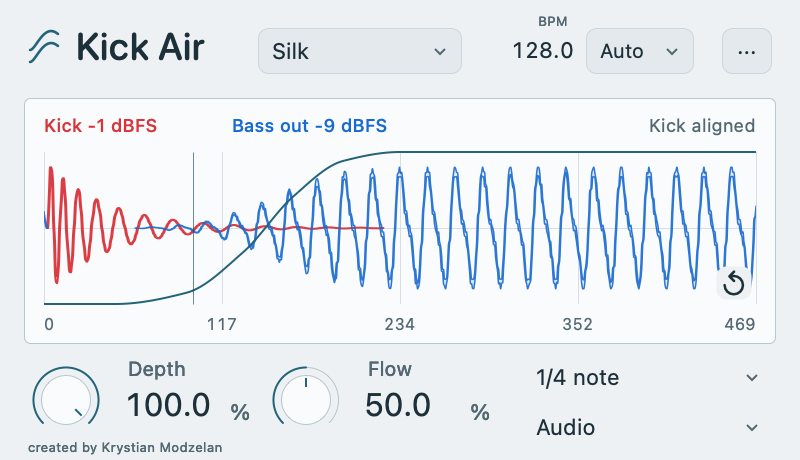
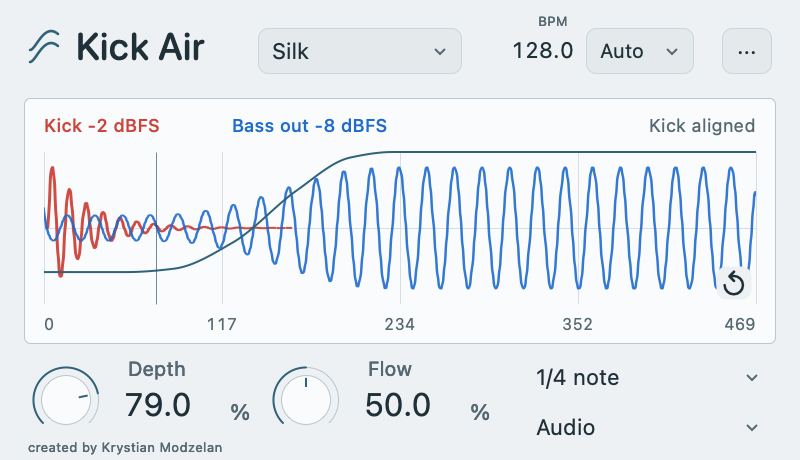
Release 0.3.2 beta with new factory curves and text-only preset menus

diff --git a/VALIDATION.md b/VALIDATION.md
@@ -1,34 +1,23 @@
 # Validation summary
 
-Kick Air 0.3.1 beta, October 24, 2026.
+Kick Air 0.3.2 beta, October 24, 2026.
 
-## Audio and plugin checks
+## Checks on this build
 
-- DSP regression suite: 1,426,710 assertions passed.
+- Universal macOS AU and VST3 builds completed for Apple Silicon and Intel.
+- Native Windows x64 VST3 build completed.
+- DSP regression suite: 1,426,710 assertions passed on macOS and under Wine.
 - Official VST3 validator: 47 passed, 0 failed on each platform build.
-- macOS AU: strict native validation passed. Intel AU validation also passed
-  using Rosetta on Apple Silicon.
 - Native macOS VST3 test host: 79,631 checks passed.
-- Windows VST3 test host: 79,516 checks passed using Wine 11.0 on macOS.
-
-The plugin hosts exercise the real binaries, main and sidechain inputs, mono and
-stereo, 32-bit and 64-bit buffers, automation, MIDI, latency, tempo and saved state.
-
-## GUI and installers
-
-- Windows native controls, curve dragging, numeric input and Details passed
-  runtime checks at 100, 150 and 200 percent scaling.
-- Windows installation, installed-plugin runtime, app registration, uninstall and
-  preservation of an unrelated test file passed using Wine.
-- The English macOS package installed successfully for the current user. Its AU
-  and VST3 binaries match the validated builds.
-- Public installer payloads contain English guides. The audio binaries are
-  unchanged from the tested 0.3.1 builds.
+- Windows VST3 test host: 79,516 checks passed using Wine 11.0 on macOS, including native controls and 100/150/200 percent DPI.
+- macOS bundle signatures verified during packaging. These are ad-hoc signatures, not Developer ID signatures.
+- Windows packaging verified the exact current binary and runtime evidence.
+- Preset thumbnail drawing was removed from both native menus. All factory curves use the new library.
 
 ## Limits
 
-Wine tests are not a substitute for testing in a DAW on a physical Windows PC.
-Physical Intel Mac testing and compatibility with every DAW are not confirmed.
-These are unsigned beta installers. The macOS package is not notarized.
+This update was not manually retested in DAWs or installed on physical Windows or Intel Mac hardware. AU host validation and installer install/uninstall checks from 0.3.1 were not repeated for 0.3.2. Automated host checks do not establish compatibility with every DAW.
 
-The release includes SHA256SUMS.txt for checking downloaded files.
+The installers are unsigned, and the macOS package is not notarized. Antivirus detections for an earlier Windows installer remain unresolved. A changed hash is not proof of safety or a fix for those detections.
+
+SHA256SUMS.txt identifies the exact release downloads.

diff --git a/USER_GUIDE.md b/USER_GUIDE.md
@@ -1,6 +1,6 @@
 # Kick Air user guide
 
-Version 0.3.1 beta
+Version 0.3.2 beta
 
 Kick Air lowers the volume of a bass or another track when a sound arrives at its
 external sidechain input. The sidechain source can be a kick, snare or any other
@@ -16,7 +16,7 @@ AAX, VST2, Linux and 32-bit Windows hosts are not included.
 ## Install on Windows
 
 1. Save your project and close your DAW.
-2. Run `KickAir-0.3.1-Windows-x64.exe` and complete the setup.
+2. Run `KickAir-0.3.2-Windows-x64.exe` and complete the setup.
 3. Open your DAW and rescan VST3 plugins if Kick Air does not appear.
 
 The installer needs administrator permission and places the plugin in:
@@ -33,7 +33,7 @@ Uninstall. Your DAW projects are kept.
 ## Install on macOS
 
 1. Save your project and close your DAW.
-2. Open `KickAir-0.3.1-macOS.pkg` and install for your current user account.
+2. Open `KickAir-0.3.2-macOS.pkg` and install for your current user account.
 3. Open your DAW and rescan plugins if Kick Air does not appear.
 
 The installer includes universal AU and VST3 plugins:
@@ -107,7 +107,8 @@ DAW. The main input receives the bass; the auxiliary input receives the trigger.
   the knob for 10 percent steps or type an exact value. Double-click resets to 100.
 - Flow: character of the return. Lower values return later and more steeply;
   higher values return earlier and more gently. Double-click resets to 50.
-- Shape: choose one of 16 starting curves or edit a Custom curve.
+- Shape: choose one of 16 named starting curves or edit a Custom curve. The menu
+  shows names only; the selected curve appears in the main display.
 - Note division: choose 1/8, 1/4, 1/2 or one bar. This changes the response duration.
   In Audio mode, each detected hit can trigger the curve, including faster hits.
 - Auto: follows the project tempo. Type a BPM value to use a manual tempo, or
@@ -184,3 +185,9 @@ buffer size and steps to reproduce. Include routing screenshots when relevant.
 See TESTING.md in the GitHub repository for the feedback checklist.
 
 created by Krystian Modzelan
+
+## Updating from 0.3.1
+
+Version 0.3.2 replaces all factory curves. Projects using a factory shape may
+sound different after updating. Save or export important projects first. Custom
+curve points, parameter IDs and plugin identifiers are unchanged.

diff --git a/README.md b/README.md
@@ -12,10 +12,14 @@ another sound sent to the external sidechain.
 
 | Platform | Format | Installer |
 | --- | --- | --- |
-| Windows 10/11, 64-bit | VST3 | [Download EXE](https://github.com/kikk-i/kick-air/releases/download/v0.3.1-beta.1/KickAir-0.3.1-Windows-x64.exe) |
-| macOS 11+, Apple Silicon and Intel | AU and VST3 | [Download PKG](https://github.com/kikk-i/kick-air/releases/download/v0.3.1-beta.1/KickAir-0.3.1-macOS.pkg) |
+| Windows 10/11, 64-bit | VST3 | [Download EXE](https://github.com/kikk-i/kick-air/releases/download/v0.3.2-beta.1/KickAir-0.3.2-Windows-x64.exe) |
+| macOS 11+, Apple Silicon and Intel | AU and VST3 | [Download PKG](https://github.com/kikk-i/kick-air/releases/download/v0.3.2-beta.1/KickAir-0.3.2-macOS.pkg) |
 
-Version 0.3.1 beta. No account, activation or time limit.
+Version 0.3.2 beta. No account, activation or time limit.
+
+This update replaces all 16 factory curves and shows preset names without
+thumbnail graphics on both platforms. Custom curve points are unchanged. Factory
+preset selections in older projects may sound different after updating.
 
 Save your project and close your DAW before installing. Restart it afterwards and
 rescan plugins if needed. These are unsigned beta installers. The macOS package
@@ -49,10 +53,9 @@ Please report your DAW, OS, plugin format, sample rate and buffer size. Routing,
 clicks, project recall, offline export and display scaling are useful things to
 check. [Testing checklist](TESTING.md) and [bug reports](https://github.com/kikk-i/kick-air/issues/new/choose).
 
-macOS AU and VST3 passed native validation and test-host checks. Windows passed
-runtime, GUI, install and uninstall checks using Wine on macOS. Testing in DAWs
-on physical Windows PCs is still needed. Compatibility with every DAW is not
-confirmed. [Validation summary](VALIDATION.md).
+See the [validation summary](VALIDATION.md) for checks on this build. This update
+was not manually retested in DAWs. Testing on physical Windows PCs is still
+needed. Compatibility with every DAW is not confirmed.
 
 This repository contains downloads and documentation. Plugin source code is not
 included. The screenshot uses generated test audio.

diff --git a/CHANGELOG.md b/CHANGELOG.md
@@ -1,0 +1,7 @@
+# Changes
+
+## 0.3.2 beta
+
+Preset menus now show names only on both platforms. All 16 factory envelopes
+have been rebuilt using new timings and response points. Saved Custom curves
+are unchanged. Factory presets in existing projects may sound different.

diff --git a/TESTING.md b/TESTING.md
@@ -1,6 +1,6 @@
 # Testing Kick Air
 
-Version 0.3.1 beta. No activation or time limit.
+Version 0.3.2 beta. No activation or time limit.
 
 Please use a saved copy of a project for your first test.
 
